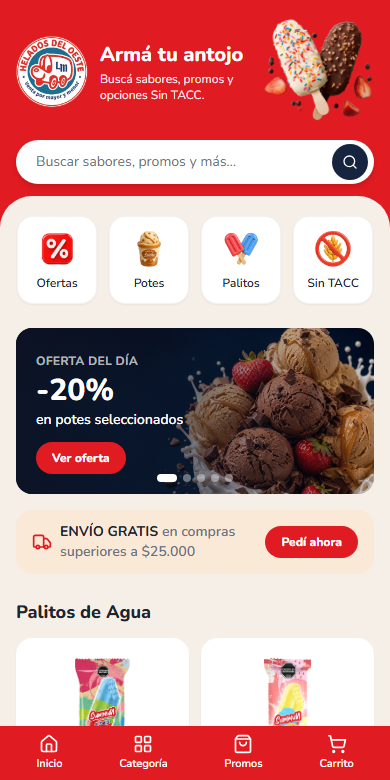
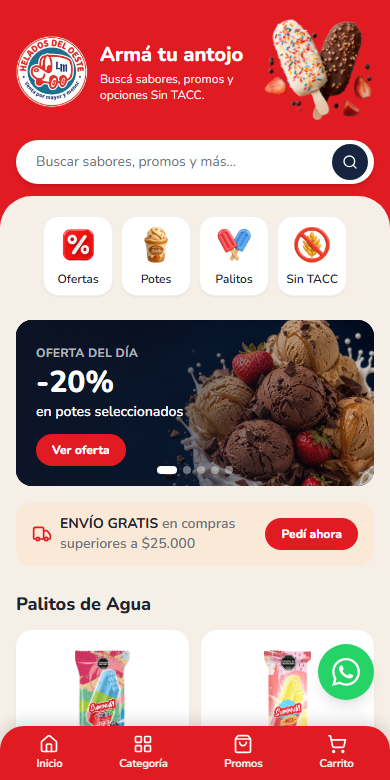
feat: add floating WhatsApp button for quick consultations

diff --git a/src/components/FloatingWhatsApp.tsx b/src/components/FloatingWhatsApp.tsx
@@ -1,0 +1,18 @@
+const WA_URL =
+  'https://api.whatsapp.com/send/?phone=5491154792502&text&type=phone_number&app_absent=0';
+
+export function FloatingWhatsApp() {
+  return (
+    <a
+      href={WA_URL}
+      target="_blank"
+      rel="noopener noreferrer"
+      aria-label="Consultanos por WhatsApp"
+      className="fixed bottom-20 right-4 z-50 flex h-14 w-14 items-center justify-center rounded-full bg-[#25D366] text-white shadow-lg transition hover:scale-105 md:bottom-6 md:right-6"
+    >
+      <svg viewBox="0 0 24 24" fill="currentColor" className="h-7 w-7" aria-hidden>
+        <path d="M17.472 14.382c-.297-.149-1.758-.867-2.03-.967-.273-.099-.471-.148-.67.15-.197.297-.767.966-.94 1.164-.173.199-.347.223-.644.075-.297-.15-1.255-.463-2.39-1.475-.883-.788-1.48-1.761-1.653-2.059-.173-.297-.018-.458.13-.606.134-.133.298-.347.446-.52.149-.174.198-.298.298-.497.099-.198.05-.371-.025-.52-.075-.149-.669-1.612-.916-2.207-.242-.579-.487-.5-.669-.51-.173-.008-.371-.01-.57-.01-.198 0-.52.074-.792.372-.272.297-1.04 1.016-1.04 2.479 0 1.462 1.065 2.875 1.213 3.074.149.198 2.096 3.2 5.077 4.487.709.306 1.262.489 1.694.625.712.227 1.36.195 1.871.118.571-.085 1.758-.719 2.006-1.413.248-.694.248-1.289.173-1.413-.074-.124-.272-.198-.57-.347m-5.421 7.403h-.004a9.87 9.87 0 01-5.031-1.378l-.361-.214-3.741.982.998-3.648-.235-.374a9.86 9.86 0 01-1.51-5.26c.001-5.45 4.436-9.884 9.888-9.884 2.64 0 5.122 1.03 6.988 2.898a9.825 9.825 0 012.893 6.994c-.003 5.45-4.437 9.884-9.885 9.884m8.413-18.297A11.815 11.815 0 0012.05 0C5.495 0 .16 5.335.157 11.892c0 2.096.547 4.142 1.588 5.945L.057 24l6.305-1.654a11.882 11.882 0 005.683 1.448h.005c6.554 0 11.890-5.335 11.893-11.893a11.821 11.821 0 00-3.48-8.413z" />
+      </svg>
+    </a>
+  );
+}

diff --git a/src/App.tsx b/src/App.tsx
@@ -14,6 +14,7 @@ import { Testimonials } from './components/Testimonials';
 import { Newsletter } from './components/Newsletter';
 import { Footer } from './components/Footer';
 import { PedidoDrawer } from './components/PedidoDrawer';
+import { FloatingWhatsApp } from './components/FloatingWhatsApp';
 
 const GROUP_CATS: Record<'potes' | 'palitos', string[]> = {
   potes: ['potes-individuales', 'potes-familiares'],
@@ -113,6 +114,7 @@ export default function App() {
       </div>
 
       <Footer store={data.store} />
+      <FloatingWhatsApp />
       <BottomNav count={pedido.count} onCartClick={() => setDrawerOpen(true)} />
       <PedidoDrawer
         open={drawerOpen}
